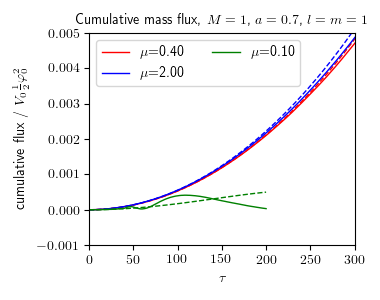
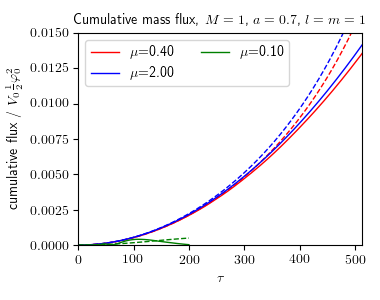
new plot

diff --git a/Analysis/scripts/plot_mass_flux_compare_mu.py b/Analysis/scripts/plot_mass_flux_compare_mu.py
@@ -31,6 +31,7 @@ cumulative=True
 Theta_max="1.0"
 Ntheta=18
 Nphi=64
+tau_or_t=True
 
 # appropriate \int Ylm Ylm^* cos(2 theta) sin(theta) dtheta dphi factor for 0 <= l <= 10
 cos2theta_integrals = [[-(1/3)],[1/5,-(3/5)],[1/21,-(1/7),-(5/7)],\
@@ -117,7 +118,10 @@ class data_dir:
 		self.tflux = flux_data[1:,0]
 		self.r_min = flux_data[0,1]
 		self.r_max = flux_data[0,2]
-		E0 = 0.5*(4*np.pi*(self.r_max**3)/3)*(phi0*mu)**2
+		if tau_or_t:
+			E0 = 0.5*(4*np.pi*(self.r_max**3)/3)*(phi0)**2		
+		else:
+			E0 = 0.5*(4*np.pi*(self.r_max**3)/3)*(phi0*mu)**2
 		self.inner_mass_flux = -flux_data[1:,1]/(E0)
 		self.outer_mass_flux = -flux_data[1:,2]/(E0)	
 		if cumulative:
@@ -137,6 +141,10 @@ class data_dir:
 				dt = tmass[1] - tmass[0]
 				self.tmass_mean = 0.5*(self.tmass[1:]+self.tmass[:-1])
 				self.dmass = (mass_line_data[1:,1] - mass_line_data[:-1,1])/(E0*dt)
+			if tau_or_t:
+				self.tmass = self.tmass*mu
+		if tau_or_t:
+			self.tflux = self.tflux*mu
 				
 data_dirs = []
 def add_data_dir(num, l, m, a, mu, Al, nphi=Nphi, ntheta=Ntheta, suffix="_theta_max" + Theta_max):
@@ -212,14 +220,24 @@ def plot_graph():
 			elif not cumulative:
 				ax1.plot(dd.tmass,dd.dmass,colours[i]+"-.", label="_rate of change in mass $R_+<R<${:.1f} ".format(R_max)+label_, linewidth=1)
 		i = i + 1
-	ax1.set_xlabel("$t$", fontsize=label_size)
-	ax1.set_xlim((0, 512))
-	ax1.set_ylim((0.0, 0.015))
+	if tau_or_t:
+		ax1.set_xlabel("$\\tau$", fontsize=label_size)
+	else:
+		ax1.set_xlabel("$t$", fontsize=label_size)
+	if tau_or_t:
+		ax1.set_xlim((0, 512))
+		ax1.set_ylim((0.0, 0.015))
+	else:
+		ax1.set_xlim((0, 512))
+		ax1.set_ylim((0.0, 0.015))
 	if cumulative:
-		#ax1.set_ylabel("cumulative flux / $V_0 \\frac{1}{2} \\varphi^2_0$")
-		ax1.set_ylabel("cumulative flux / $E_0$") # \\frac{1}{2} \\varphi^2_0$")
+		if tau_or_t:
+			ax1.set_ylabel("cumulative flux / $V_0 \\frac{1}{2} \\varphi^2_0$")
+			save_path = home_path + "plots/mass_flux_in_R{:.0f}_IsoKerr_compare_mu_cumulative.png".format(R_max)
+		else:
+			ax1.set_ylabel("cumulative flux / $E_0$") # \\frac{1}{2} \\varphi^2_0$")
+			save_path = home_path + "plots/mass_flux_in_R{:.0f}_IsoKerr_compare_mu_cumulative_vs_t.png".format(R_max)
 		plt.title("Cumulative mass flux, $M=1$, $a=0.7$, $l=m=1$", fontsize=title_font_size)
-		save_path = home_path + "plots/mass_flux_in_R{:.0f}_IsoKerr_compare_mu_cumulative_vs_t.png".format(R_max)
 	else:
 		ax1.set_ylabel("flux / $E_0$")
 		plt.title("Mass flux, $M=1$, $a=0.7$, $l=m=1$", fontsize=title_font_size)
